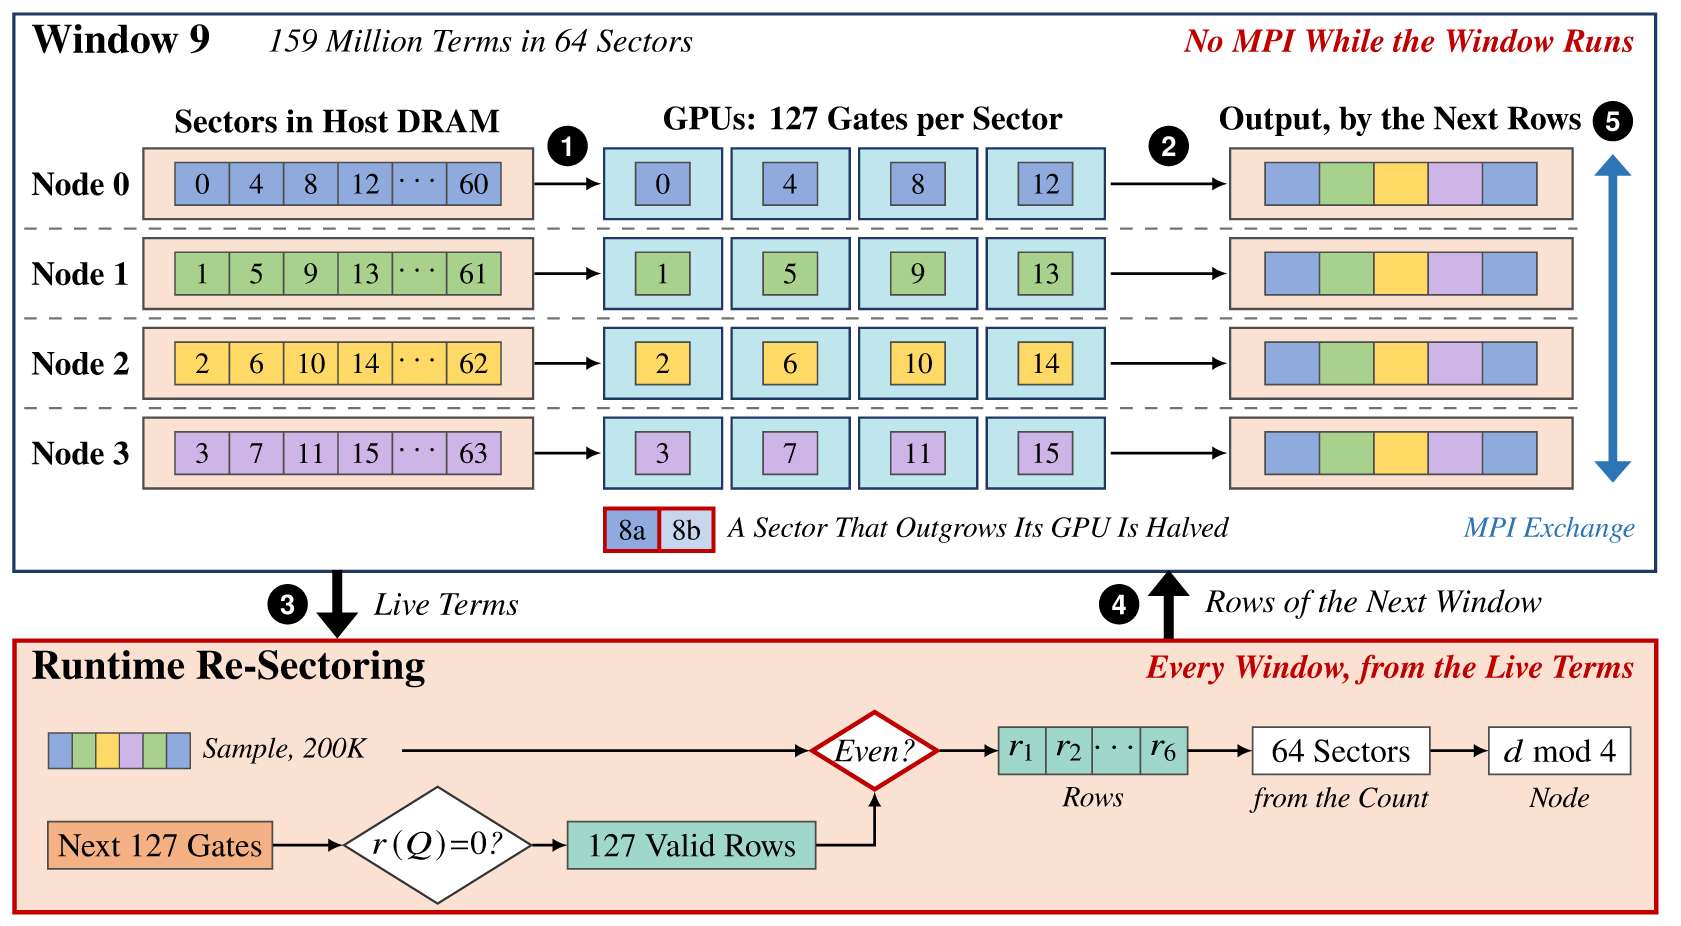
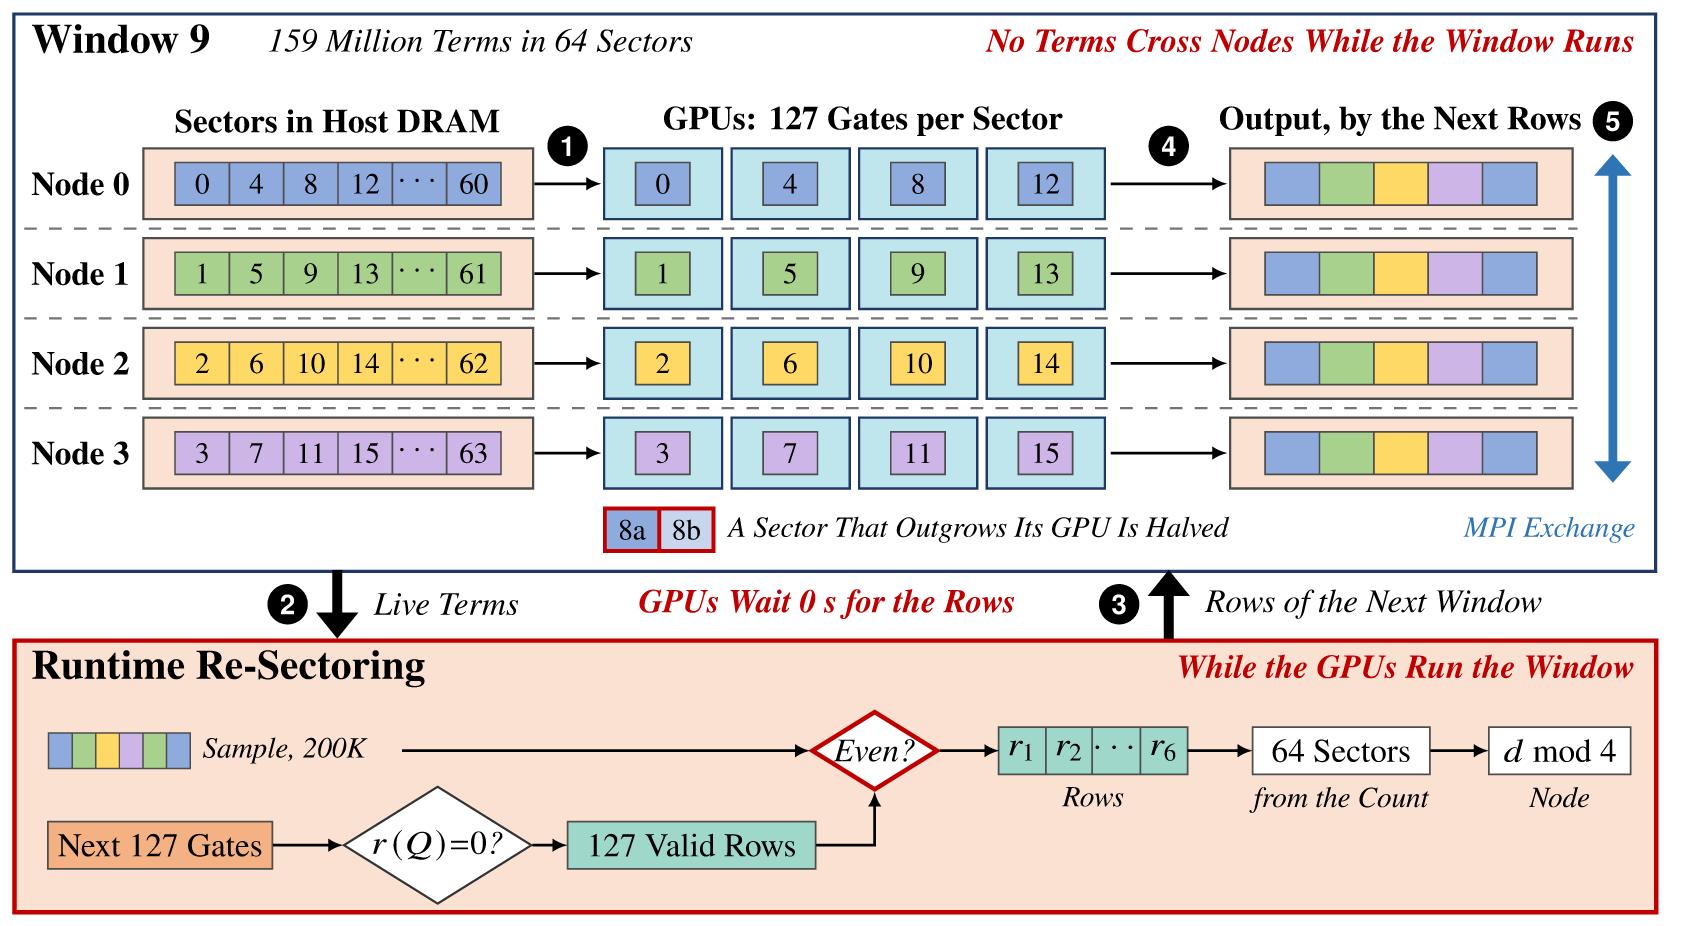
Design figures and text for the engine that re-sectors while the window runs
Architecture: the sample is taken when the window starts, the rows arrive before a GPU partitions its output
(GPUs wait 0 s); 'no terms cross nodes while the window runs' replaces 'no MPI while the window runs'.
Communication: collective calls per GPU measured on the engine (208, 576 times fewer than cuPauliProp).
Storage: the chunk pool grows while the GPUs work. README 3.1, 3.3, 3.8, 4.7, 4.11, 6.3.

diff --git a/figures/src/design_architecture.tex b/figures/src/design_architecture.tex
@@ -1,10 +1,14 @@
 % Overall architecture of SectorQ (Section 3.1): one loop that runs for every window, at run time.
 %   top     one window on four nodes: every node keeps its sectors in host memory, its GPUs take them one
 %           at a time, and the output leaves the GPU already divided by the rows of the next window;
-%           nothing moves between nodes while the window runs
+%           no term crosses nodes while the window runs
 %   bottom  runtime re-sectoring: the rows and the number of sectors of the next window are decided from
-%           the live terms (a sample of them and their count) and the next gates, every window; the rows
-%           go back up to the GPUs; the exchange at the boundary puts every next sector on its node
+%           the live terms (a sample taken when the window starts, and their count) and the next gates,
+%           while the GPUs run the window; the rows are there before a GPU partitions its output (the
+%           workers waited 0.000 s for them in this run, logs/h1/h.h1.ki.1e-5.g16.out); the exchange at
+%           the boundary puts every next sector on its node
+% Order of the numbers: 1 sectors to the GPUs and 2 the sample of the live terms start together, 3 the rows
+% arrive, 4 the GPUs partition their output by them, 5 the exchange.
 % A sector has the color of the node that owns it (sector d lives on node d mod 4). The numbers are those
 % of window 9 of the 127-qubit kicked Ising run on 16 GPUs (logs/pp_e11-59488608.out): 158.9 million terms,
 % 127 rotations, generator rank 127, 127 valid rows, 6 rows chosen, 64 sectors, largest sector 1.01 times
@@ -17,7 +21,7 @@
   \node[frame, anchor=north west, minimum width=13.9cm, minimum height=4.72cm] at (0,0) {};
   \node[lttl, anchor=north west] at (0.1,-0.04) {Window 9};
   \node[note, anchor=north west] at (2.1,-0.08) {159 Million Terms in 64 Sectors};
-  \node[key, anchor=north east] at (13.8,-0.08) {No MPI While the Window Runs};
+  \node[key, anchor=north east] at (13.8,-0.08) {No Terms Cross Nodes While the Window Runs};
   \node[cttl] at (2.75,-0.92) {Sectors in Host DRAM};
   \node[cttl] at (7.2,-0.92) {GPUs: 127 Gates per Sector};
   \node[cttl] at (11.75,-0.92) {Output, by the Next Rows};
@@ -42,7 +46,7 @@
   \foreach \n in {0,1,2}
     \draw[black!55, dashed, line width=0.5pt] (0.1,{-1.83-0.76*\n}) -- (13.25,{-1.83-0.76*\n});
   \node[num] at (4.7,-1.13) {1};
-  \node[num] at (9.79,-1.13) {2};
+  \node[num] at (9.79,-1.13) {4};
   % the exchange at the end of the window, and the way back
   \draw[dfat, dblue] (13.55,-1.2) -- (13.55,-3.98);
   \node[inote, text=dblue, rotate=90] at (13.28,-2.59) {};
@@ -55,7 +59,7 @@
   % ================= runtime re-sectoring =================
   \node[draw=dred, line width=1.0pt, fill=peach, anchor=north west, minimum width=13.9cm, minimum height=2.3cm] at (0,-5.3) {};
   \node[lttl, anchor=north west] at (0.1,-5.34) {Runtime Re-Sectoring};
-  \node[key, anchor=north east] at (13.8,-5.38) {Every Window, from the Live Terms};
+  \node[key, anchor=north east] at (13.8,-5.38) {While the GPUs Run the Window};
   % inputs: the live terms and the next gates
   \foreach \i/\ff in {0/sa, 1/sb, 2/sc, 3/sd, 4/sb, 5/sa}
     \node[dot, fill=\ff] at ({0.3+0.2*\i},-6.25) {};
@@ -78,8 +82,9 @@
   \node[inote, anchor=north] at (9.15,-6.5) {Rows};
   \node[inote, anchor=north] at (11.25,-6.5) {from the Count};
   \node[inote, anchor=north] at (13.1,-6.5) {Node};
-  \node[num] at (2.33,-5.01) {3};
-  \node[num] at (9.37,-5.01) {4};
+  \node[num] at (2.33,-5.01) {2};
+  \node[num] at (9.37,-5.01) {3};
+  \node[key] at (6.9,-5.01) {GPUs Wait 0 s for the Rows};
   % ================= the loop between the two =================
   \draw[fat] (2.75,-4.72) -- (2.75,-5.3);
   \node[note, anchor=west] at (3.0,-5.01) {Live Terms};

diff --git a/figures/src/design_comm.tex b/figures/src/design_comm.tex
@@ -5,8 +5,11 @@
 %       cut at run time right after a truncation (window 8 of job 59488608: 159 million of the 1.36 billion
 %       terms of the peak are moved)
 % Bottom rows: measured on the kicked Ising setting with 22.5 million terms on 4 GPUs
-% (collective calls per rank 119,785 against 51; data between GPUs 20.3 GB against 0.57 GB;
-% logs/pp_prof1-59470347.out and logs/pp_lo-59471256.out).
+% (collective calls per rank 119,785 against 208; data between GPUs 20.3 GB against 0.57 GB;
+% cuPauliProp: logs/pp_prof1-59470347.out; SectorQ: the engine with one GPU on each of four nodes, its MPI
+% calls counted by bin/libmpi_shim.so, logs/h1/shim.h4.comm.ki.1e-4.n4x1.{out,mpiprof}).
+% While a window runs the terms stay on their GPU; the main threads of the nodes exchange only the sample of
+% 200,000 terms and the rows of the next window.
 \begin{tikzpicture}[x=1cm, y=1cm, font=\rmfamily\footnotesize]
   \tikzset{tb/.style={draw=black!70, line width=0.3pt, anchor=west, inner sep=0pt, minimum width=0.3cm, minimum height=0.3cm},
            rc/.style={draw=black!70, line width=0.35pt, anchor=north west, inner sep=0pt, minimum height=0.42cm,
@@ -48,7 +51,7 @@
     \draw[sarr] ({\x+1.06},-1.93) arc[start angle=10, end angle=-190, x radius=0.34, y radius=0.1];
     \node[inote, inner sep=0.5pt] at ({\x+0.72},-2.2) {127 Gates};
   }
-  \node[key] at (10.55,-2.68) {0 MPI Calls While the Window Runs};
+  \node[key] at (10.55,-2.68) {No Terms Cross GPUs While the Window Runs};
   \node[draw=dblue, line width=0.9pt, fill=dblue!18, anchor=north west, minimum width=6.3cm, minimum height=0.95cm] at (7.4,-2.95) {};
   \node[cttl] at (10.55,-3.22) {Exchange at the Window Boundary};
   \node[note] at (10.55,-3.64) {Cut at Run Time: 159M of 1.36B Terms Move};
@@ -57,7 +60,7 @@
   \node[inote, anchor=west] at (8.78,-4.2) {A New Term Stays in Its Sector};
   % measured
   \node[rc, fill=black!10, minimum width=3.3cm] at (7.4,-4.55) {Collective Calls per GPU};
-  \node[rc, fill=white, minimum width=3.0cm, font=\rmfamily\bfseries\footnotesize] at (10.7,-4.55) {51\quad\textcolor{dred}{2,349$\times$ Fewer}};
+  \node[rc, fill=white, minimum width=3.0cm, font=\rmfamily\bfseries\footnotesize] at (10.7,-4.55) {208\quad\textcolor{dred}{576$\times$ Fewer}};
   \node[rc, fill=black!10, minimum width=3.3cm] at (7.4,-4.97) {Data Between GPUs};
   \node[rc, fill=white, minimum width=3.0cm, font=\rmfamily\bfseries\footnotesize] at (10.7,-4.97) {0.57 GB\quad\textcolor{dred}{36$\times$ Less}};
   \node[rc, fill=black!10, minimum width=3.3cm] at (7.4,-5.39) {Global Steps};

diff --git a/jobs/g_ext_impl.py b/jobs/g_ext_impl.py
@@ -51,8 +51,10 @@ def launch_engine(item, job, hosts):
     for name, binary, extra in item["variants"]:
         log = os.path.join(ROOT, "logs", tag, f"{name}.{item['id']}.out")
         cmd = ["timeout", "300", "srun", f"--jobid={job}", f"--nodelist={hosts}", "--overlap", "-N", str(nn), "-n", str(nn),
-               "--ntasks-per-node=1", "-c", "128", "--gpus-per-node=4", "--cpu-bind=none", "stdbuf", "-oL", "./bin/" + binary,
-               "--gpus", str(item["per"])] + (item["args"] + " " + extra).split()
+               "--ntasks-per-node=1", "-c", "128", "--gpus-per-node=4", "--cpu-bind=none"]
+        if item.get("prof"):                   # time the MPI calls of the engine (bin/libmpi_shim.so)
+            cmd.append(f"--export=ALL,LD_PRELOAD={ROOT}/bin/libmpi_shim.so,PP_MPIPROF_OUT={ROOT}/logs/{tag}/{name}.{item['id']}.mpiprof")
+        cmd += ["stdbuf", "-oL", "./bin/" + binary, "--gpus", str(item["per"])] + (item["args"] + " " + extra).split()
         with open(log, "w") as f:
             f.write(f"===== engine nodes={nn} gpus={nn * item['per']} args: {item['args']} {extra} --gpus {item['per']} binary={binary}\n")
             f.flush()

diff --git a/figures/src/design_store.tex b/figures/src/design_store.tex
@@ -45,7 +45,8 @@
   \node[comp, anchor=north west, minimum width=6.0cm, minimum height=0.86cm] at (0.15,-4.22) {};
   \node[cttl, anchor=north west] at (0.2,-4.23) {Chunk Pool};
   \node[inote, anchor=north east] at (6.1,-4.25) {Pinned Once, Reused};
-  \foreach \i in {0,...,8}
+  \node[inote, anchor=west] at (2.5,-4.83) {Grown While the GPUs Work};
+  \foreach \i in {0,...,4}
     \node[ch, pattern=north east lines, pattern color=black!55] at ({0.3+0.4*\i},-4.83) {};
   % ================= one GPU =================
   \node[gpu, anchor=north west, minimum width=6.9cm, minimum height=5.2cm] at (7.0,0) {};
